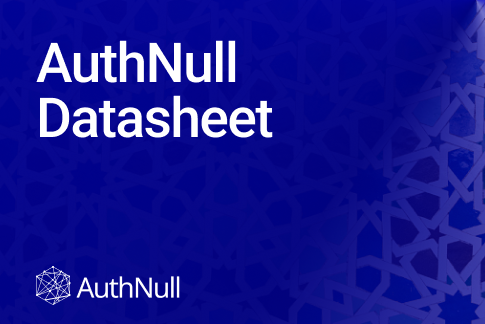
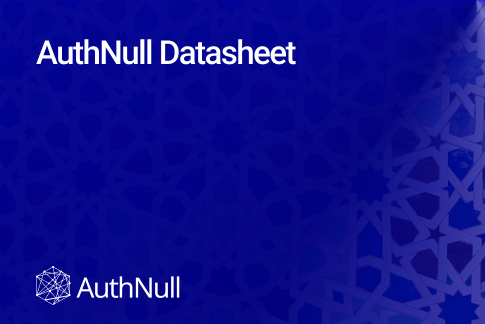
updated images
Former-commit-id: 0255e07e7af778e5f4ea4f6a45ada4fe8f7437eb

Changed region(s): [[0.0619, 0.1235, 0.6186, 0.2778], [0.0619, 0.2778, 0.5876, 0.4321]]

diff --git a/_site/resources/2023-06-30-product-deck.html b/_site/resources/2023-06-30-product-deck.html
@@ -360,7 +360,7 @@
         <h1 class="mt-2 text-3xl font-bold text-gray-900 max-w-4xl sm:text-4xl"> AuthNull Product Deck </h1>
        
         <div class="mt-10 max-w-4xl blog-text py-5">
-          <embed src="/assets/resources/product-deck.pdf" width="1200px" height="1100px" />
+          <embed src="/assets/resources/product-overview.pdf" width="1200px" height="1100px" />
 
 
         </div>
@@ -391,7 +391,7 @@
     
     
     
-    <a class="group rounded-xl overflow-hidden hover:shadow-lg hover:bg-slate-50 md:p-6" href="/resources/2023-06-01-authnull-datasheet.html">
+    <a class="group rounded-xl overflow-hidden hover:shadow-lg hover:bg-slate-50   md:p-6" href="/resources/2023-06-01-authnull-datasheet.html">
       <div class="relative pt-[50%] sm:pt-[70%] rounded-xl ">
         <img class="w-full h-full absolute top-0 left-0 object-cover group-hover:scale-105 transition-transform duration-500 ease-in-out rounded-xl" src="/assets/images/datasheet.png" alt="">
        
@@ -422,7 +422,7 @@
     
     
     
-    <a class="group rounded-xl overflow-hidden hover:shadow-lg hover:bg-slate-50 md:p-6" href="/resources/2023-06-20-authnull-comparison-with-okta-advanced-server-access.html">
+    <a class="group rounded-xl overflow-hidden hover:shadow-lg hover:bg-slate-50   md:p-6" href="/resources/2023-06-20-authnull-comparison-with-okta-advanced-server-access.html">
       <div class="relative pt-[50%] sm:pt-[70%] rounded-xl ">
         <img class="w-full h-full absolute top-0 left-0 object-cover group-hover:scale-105 transition-transform duration-500 ease-in-out rounded-xl" src="/assets/images/comparison-with-okta-advanced-server-access.png" alt="">
        
@@ -484,7 +484,7 @@
     
     
     
-    <a class="group rounded-xl overflow-hidden hover:shadow-lg hover:bg-slate-50 md:p-6" href="/resources/2023-06-30-product-deck.html">
+    <a class="group rounded-xl overflow-hidden hover:shadow-lg hover:bg-slate-50   md:p-6" href="/resources/2023-06-30-product-deck.html">
       <div class="relative pt-[50%] sm:pt-[70%] rounded-xl ">
         <img class="w-full h-full absolute top-0 left-0 object-cover group-hover:scale-105 transition-transform duration-500 ease-in-out rounded-xl" src="/assets/images/product-overview.png" alt="">
        

diff --git a/_site/resources.html b/_site/resources.html
@@ -391,7 +391,7 @@
     
     
     
-    <a class="group rounded-xl overflow-hidden hover:shadow-lg hover:bg-slate-50 md:p-6" href="/resources/2023-06-01-authnull-datasheet.html">
+    <a class="group rounded-xl overflow-hidden hover:shadow-lg hover:bg-slate-50   md:p-6" href="/resources/2023-06-01-authnull-datasheet.html">
       <div class="relative pt-[50%] sm:pt-[70%] rounded-xl ">
         <img class="w-full h-full absolute top-0 left-0 object-cover group-hover:scale-105 transition-transform duration-500 ease-in-out rounded-xl" src="/assets/images/datasheet.png" alt="">
        
@@ -422,7 +422,7 @@
     
     
     
-    <a class="group rounded-xl overflow-hidden hover:shadow-lg hover:bg-slate-50 md:p-6" href="/resources/2023-06-20-authnull-comparison-with-okta-advanced-server-access.html">
+    <a class="group rounded-xl overflow-hidden hover:shadow-lg hover:bg-slate-50   md:p-6" href="/resources/2023-06-20-authnull-comparison-with-okta-advanced-server-access.html">
       <div class="relative pt-[50%] sm:pt-[70%] rounded-xl ">
         <img class="w-full h-full absolute top-0 left-0 object-cover group-hover:scale-105 transition-transform duration-500 ease-in-out rounded-xl" src="/assets/images/comparison-with-okta-advanced-server-access.png" alt="">
        
@@ -484,7 +484,7 @@
     
     
     
-    <a class="group rounded-xl overflow-hidden hover:shadow-lg hover:bg-slate-50 md:p-6" href="/resources/2023-06-30-product-deck.html">
+    <a class="group rounded-xl overflow-hidden hover:shadow-lg hover:bg-slate-50   md:p-6" href="/resources/2023-06-30-product-deck.html">
       <div class="relative pt-[50%] sm:pt-[70%] rounded-xl ">
         <img class="w-full h-full absolute top-0 left-0 object-cover group-hover:scale-105 transition-transform duration-500 ease-in-out rounded-xl" src="/assets/images/product-overview.png" alt="">
        

diff --git a/_site/resources/2023-06-01-authnull-datasheet.html b/_site/resources/2023-06-01-authnull-datasheet.html
@@ -391,7 +391,7 @@
     
     
     
-    <a class="group rounded-xl overflow-hidden hover:shadow-lg hover:bg-slate-50 md:p-6" href="/resources/2023-06-01-authnull-datasheet.html">
+    <a class="group rounded-xl overflow-hidden hover:shadow-lg hover:bg-slate-50   md:p-6" href="/resources/2023-06-01-authnull-datasheet.html">
       <div class="relative pt-[50%] sm:pt-[70%] rounded-xl ">
         <img class="w-full h-full absolute top-0 left-0 object-cover group-hover:scale-105 transition-transform duration-500 ease-in-out rounded-xl" src="/assets/images/datasheet.png" alt="">
        
@@ -422,7 +422,7 @@
     
     
     
-    <a class="group rounded-xl overflow-hidden hover:shadow-lg hover:bg-slate-50 md:p-6" href="/resources/2023-06-20-authnull-comparison-with-okta-advanced-server-access.html">
+    <a class="group rounded-xl overflow-hidden hover:shadow-lg hover:bg-slate-50   md:p-6" href="/resources/2023-06-20-authnull-comparison-with-okta-advanced-server-access.html">
       <div class="relative pt-[50%] sm:pt-[70%] rounded-xl ">
         <img class="w-full h-full absolute top-0 left-0 object-cover group-hover:scale-105 transition-transform duration-500 ease-in-out rounded-xl" src="/assets/images/comparison-with-okta-advanced-server-access.png" alt="">
        
@@ -484,7 +484,7 @@
     
     
     
-    <a class="group rounded-xl overflow-hidden hover:shadow-lg hover:bg-slate-50 md:p-6" href="/resources/2023-06-30-product-deck.html">
+    <a class="group rounded-xl overflow-hidden hover:shadow-lg hover:bg-slate-50   md:p-6" href="/resources/2023-06-30-product-deck.html">
       <div class="relative pt-[50%] sm:pt-[70%] rounded-xl ">
         <img class="w-full h-full absolute top-0 left-0 object-cover group-hover:scale-105 transition-transform duration-500 ease-in-out rounded-xl" src="/assets/images/product-overview.png" alt="">
        

diff --git a/_site/resources/2023-06-20-authnull-comparison-with-okta-advanced-server-access.html b/_site/resources/2023-06-20-authnull-comparison-with-okta-advanced-server-access.html
@@ -391,7 +391,7 @@
     
     
     
-    <a class="group rounded-xl overflow-hidden hover:shadow-lg hover:bg-slate-50 md:p-6" href="/resources/2023-06-01-authnull-datasheet.html">
+    <a class="group rounded-xl overflow-hidden hover:shadow-lg hover:bg-slate-50   md:p-6" href="/resources/2023-06-01-authnull-datasheet.html">
       <div class="relative pt-[50%] sm:pt-[70%] rounded-xl ">
         <img class="w-full h-full absolute top-0 left-0 object-cover group-hover:scale-105 transition-transform duration-500 ease-in-out rounded-xl" src="/assets/images/datasheet.png" alt="">
        
@@ -422,7 +422,7 @@
     
     
     
-    <a class="group rounded-xl overflow-hidden hover:shadow-lg hover:bg-slate-50 md:p-6" href="/resources/2023-06-20-authnull-comparison-with-okta-advanced-server-access.html">
+    <a class="group rounded-xl overflow-hidden hover:shadow-lg hover:bg-slate-50   md:p-6" href="/resources/2023-06-20-authnull-comparison-with-okta-advanced-server-access.html">
       <div class="relative pt-[50%] sm:pt-[70%] rounded-xl ">
         <img class="w-full h-full absolute top-0 left-0 object-cover group-hover:scale-105 transition-transform duration-500 ease-in-out rounded-xl" src="/assets/images/comparison-with-okta-advanced-server-access.png" alt="">
        
@@ -484,7 +484,7 @@
     
     
     
-    <a class="group rounded-xl overflow-hidden hover:shadow-lg hover:bg-slate-50 md:p-6" href="/resources/2023-06-30-product-deck.html">
+    <a class="group rounded-xl overflow-hidden hover:shadow-lg hover:bg-slate-50   md:p-6" href="/resources/2023-06-30-product-deck.html">
       <div class="relative pt-[50%] sm:pt-[70%] rounded-xl ">
         <img class="w-full h-full absolute top-0 left-0 object-cover group-hover:scale-105 transition-transform duration-500 ease-in-out rounded-xl" src="/assets/images/product-overview.png" alt="">
        

diff --git a/_site/resources/2023-06-30-passwordless-pam.html b/_site/resources/2023-06-30-passwordless-pam.html
@@ -391,7 +391,7 @@
     
     
     
-    <a class="group rounded-xl overflow-hidden hover:shadow-lg hover:bg-slate-50 md:p-6" href="/resources/2023-06-01-authnull-datasheet.html">
+    <a class="group rounded-xl overflow-hidden hover:shadow-lg hover:bg-slate-50   md:p-6" href="/resources/2023-06-01-authnull-datasheet.html">
       <div class="relative pt-[50%] sm:pt-[70%] rounded-xl ">
         <img class="w-full h-full absolute top-0 left-0 object-cover group-hover:scale-105 transition-transform duration-500 ease-in-out rounded-xl" src="/assets/images/datasheet.png" alt="">
        
@@ -422,7 +422,7 @@
     
     
     
-    <a class="group rounded-xl overflow-hidden hover:shadow-lg hover:bg-slate-50 md:p-6" href="/resources/2023-06-20-authnull-comparison-with-okta-advanced-server-access.html">
+    <a class="group rounded-xl overflow-hidden hover:shadow-lg hover:bg-slate-50   md:p-6" href="/resources/2023-06-20-authnull-comparison-with-okta-advanced-server-access.html">
       <div class="relative pt-[50%] sm:pt-[70%] rounded-xl ">
         <img class="w-full h-full absolute top-0 left-0 object-cover group-hover:scale-105 transition-transform duration-500 ease-in-out rounded-xl" src="/assets/images/comparison-with-okta-advanced-server-access.png" alt="">
        
@@ -484,7 +484,7 @@
     
     
     
-    <a class="group rounded-xl overflow-hidden hover:shadow-lg hover:bg-slate-50 md:p-6" href="/resources/2023-06-30-product-deck.html">
+    <a class="group rounded-xl overflow-hidden hover:shadow-lg hover:bg-slate-50   md:p-6" href="/resources/2023-06-30-product-deck.html">
       <div class="relative pt-[50%] sm:pt-[70%] rounded-xl ">
         <img class="w-full h-full absolute top-0 left-0 object-cover group-hover:scale-105 transition-transform duration-500 ease-in-out rounded-xl" src="/assets/images/product-overview.png" alt="">
        
